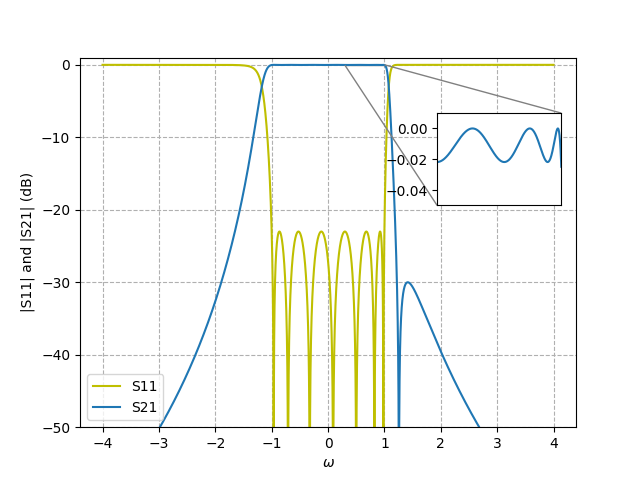
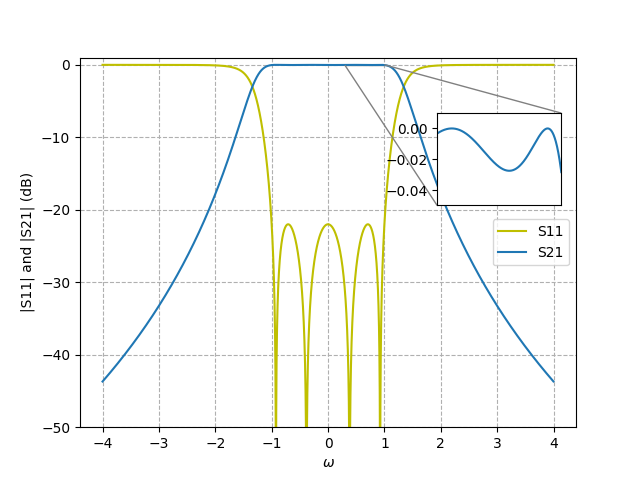
readme

diff --git a/README.md b/README.md
@@ -6,10 +6,15 @@ design by coupling matrix approach.
 
 # Installation
 ```bash
-pip install cmdesigner
+pip install -e .
+```
+# Help
+```bash
+cmdesigner-poly @h
 ```
 # Usage
 ```bash
-cmdesigner-poly -h
+cmdesigner-poly @o 4 @z 1.3217j 1.8082 @r 22
 ```
+
 
